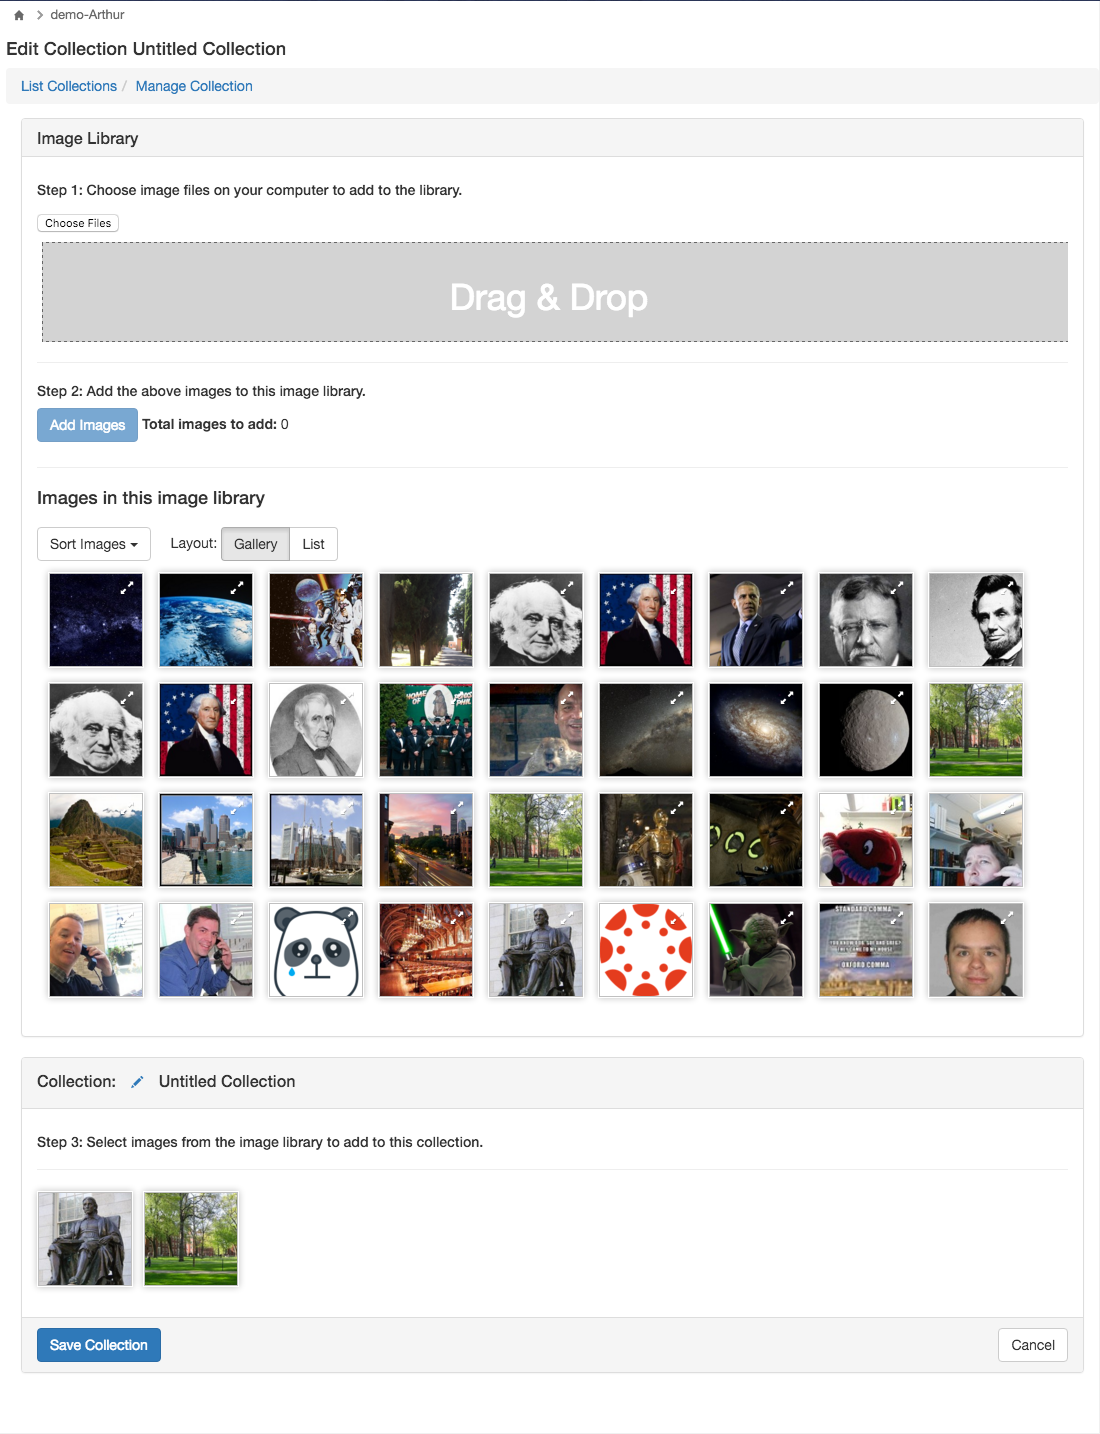
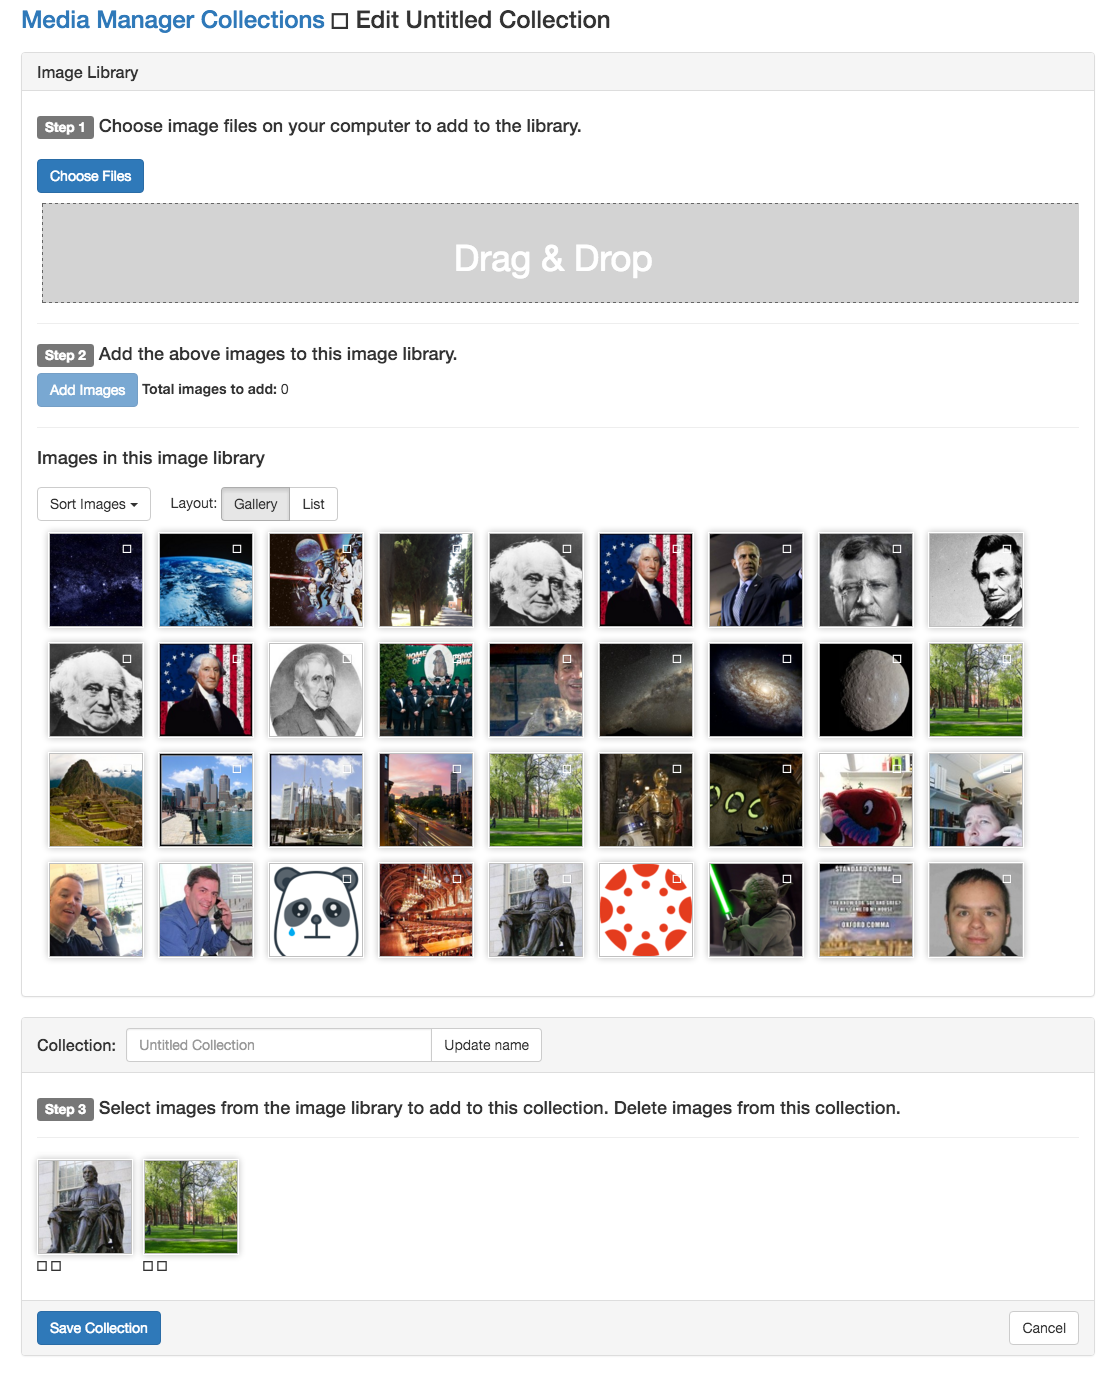
Media Manager edit - proposed screen capture and UI code

diff --git a/Media_Manager_edit/index.html b/Media_Manager_edit/index.html
@@ -1,10 +1,10 @@
 <html lang="en"><head><style type="text/css">@charset "UTF-8";[ng\:cloak],[ng-cloak],[data-ng-cloak],[x-ng-cloak],.ng-cloak,.x-ng-cloak,.ng-hide:not(.ng-hide-animate){display:none !important;}ng\:form{display:block;}.ng-animate-shim{visibility:hidden;}.ng-anchor{position:absolute;}</style>
-  <link rel="stylesheet" href="/static/app/css/vendor.css">
+  <!-- Prototype - base tag --><base href="https://media-management-lti.dev.tlt.harvard.edu" target="_blank"><!-- / Prototype --><link rel="stylesheet" href="file:///Users/vib450/Dropbox/ATG/Media_Manager_edit/proposed/vendor.css"><link rel="stylesheet" href="/static/app/css/vendor.css">
   <link rel="stylesheet" href="/static/app/css/styles.css">
   <script src="/static/app/js/vendor.js"></script><style type="text/css"></style>
   <script src="/static/app/js/app.js"></script>
-  <script>
-window.appConfig = {
+  <!-- Prototype --> 
+<!-- window.appConfig = {
     "access_token": "rnddnyrsibdbebcof5hsfuarddeuaaaaa",
     "course_id": 3,
     "media_management_api_url": "https://media-management-api.dev.tlt.harvard.edu/api",
@@ -12,7 +12,7 @@ window.appConfig = {
         "edit": true,
         "read": true
     }
-};
+}; --><!-- /Prototype --> <script>
   </script>
 </head>
 <body ng-app="media_manager" class="ng-scope">
@@ -38,11 +38,24 @@ window.appConfig = {
     </div>
   </nav>
 -->
-
-  <!-- ngView:  --><div ng-view="" class="ng-scope"><h4 class="ng-binding ng-scope">Edit Collection Untitled Collection</h4>
-
+<!-- UI comment - same header as the home page, use header as breadcrumb, as in other LTI tools -->
+  <!-- ngView:  --><div ng-view="" class="ng-scope">
+<!-- UI comment - modifying vendor.css class to change the color of the background color of the breadcrumb class to white -->
+  <style>
+  .btn-sm {
+    font-size:1.2em;
+  }
+  .breadcrumb {
+    background-color: #ffffff;
+  }
+  </style>
 <!-- ngInclude:  --><div data-ng-include="" data-src="'/static/app/templates/breadcrumbs.html'" class="ng-scope"><ol ng-controller="BreadcrumbsController" class="breadcrumb ng-scope">
-  <!-- ngRepeat: crumb in crumbs --><li ng-repeat="crumb in crumbs" class="ng-scope"><a href="#/" class="ng-binding">List Collections</a></li><!-- end ngRepeat: crumb in crumbs --><li ng-repeat="crumb in crumbs" class="ng-scope"><a href="#/workspace/8" class="ng-binding">Manage Collection</a></li><!-- end ngRepeat: crumb in crumbs -->
+  <li ng-repeat="crumb in crumbs" class="ng-scope">
+  <!-- UI comment - inline style to compensate for the spacing added by the header -->
+  <h3 style="margin-top:-.05em; margin-bottom:-.05em;"><a href="#/">Media Manager Collections</a>
+<!-- UI comment - using chevron as in LTI tools bredacrumbs -->
+    <span class="glyphicon glyphicon-chevron-right"></span>
+    Edit Untitled Collection</li><!-- end ngRepeat: crumb in crumbs -->
 </ol>
 </div>
 
@@ -59,10 +72,37 @@ window.appConfig = {
             <div ng-show="wc.isLoading.status" style="position:relative" class="ng-hide">
               <span us-spinner="{top:0,left:'50%'}" class="ng-scope"><div class="spinner" role="progressbar" style="position: absolute; width: 0px; z-index: 2000000000; left: 50%; top: 0px;"><div style="position: absolute; top: -2px; opacity: 0.25; animation: opacity-100-25-0-12 1s linear infinite;"><div style="position: absolute; width: 12px; height: 5px; box-shadow: rgba(0, 0, 0, 0.0980392) 0px 0px 1px; transform-origin: left center 0px; transform: rotate(0deg) translate(10px, 0px); border-radius: 2px; background: rgb(0, 0, 0);"></div></div><div style="position: absolute; top: -2px; opacity: 0.25; animation: opacity-100-25-1-12 1s linear infinite;"><div style="position: absolute; width: 12px; height: 5px; box-shadow: rgba(0, 0, 0, 0.0980392) 0px 0px 1px; transform-origin: left center 0px; transform: rotate(30deg) translate(10px, 0px); border-radius: 2px; background: rgb(0, 0, 0);"></div></div><div style="position: absolute; top: -2px; opacity: 0.25; animation: opacity-100-25-2-12 1s linear infinite;"><div style="position: absolute; width: 12px; height: 5px; box-shadow: rgba(0, 0, 0, 0.0980392) 0px 0px 1px; transform-origin: left center 0px; transform: rotate(60deg) translate(10px, 0px); border-radius: 2px; background: rgb(0, 0, 0);"></div></div><div style="position: absolute; top: -2px; opacity: 0.25; animation: opacity-100-25-3-12 1s linear infinite;"><div style="position: absolute; width: 12px; height: 5px; box-shadow: rgba(0, 0, 0, 0.0980392) 0px 0px 1px; transform-origin: left center 0px; transform: rotate(90deg) translate(10px, 0px); border-radius: 2px; background: rgb(0, 0, 0);"></div></div><div style="position: absolute; top: -2px; opacity: 0.25; animation: opacity-100-25-4-12 1s linear infinite;"><div style="position: absolute; width: 12px; height: 5px; box-shadow: rgba(0, 0, 0, 0.0980392) 0px 0px 1px; transform-origin: left center 0px; transform: rotate(120deg) translate(10px, 0px); border-radius: 2px; background: rgb(0, 0, 0);"></div></div><div style="position: absolute; top: -2px; opacity: 0.25; animation: opacity-100-25-5-12 1s linear infinite;"><div style="position: absolute; width: 12px; height: 5px; box-shadow: rgba(0, 0, 0, 0.0980392) 0px 0px 1px; transform-origin: left center 0px; transform: rotate(150deg) translate(10px, 0px); border-radius: 2px; background: rgb(0, 0, 0);"></div></div><div style="position: absolute; top: -2px; opacity: 0.25; animation: opacity-100-25-6-12 1s linear infinite;"><div style="position: absolute; width: 12px; height: 5px; box-shadow: rgba(0, 0, 0, 0.0980392) 0px 0px 1px; transform-origin: left center 0px; transform: rotate(180deg) translate(10px, 0px); border-radius: 2px; background: rgb(0, 0, 0);"></div></div><div style="position: absolute; top: -2px; opacity: 0.25; animation: opacity-100-25-7-12 1s linear infinite;"><div style="position: absolute; width: 12px; height: 5px; box-shadow: rgba(0, 0, 0, 0.0980392) 0px 0px 1px; transform-origin: left center 0px; transform: rotate(210deg) translate(10px, 0px); border-radius: 2px; background: rgb(0, 0, 0);"></div></div><div style="position: absolute; top: -2px; opacity: 0.25; animation: opacity-100-25-8-12 1s linear infinite;"><div style="position: absolute; width: 12px; height: 5px; box-shadow: rgba(0, 0, 0, 0.0980392) 0px 0px 1px; transform-origin: left center 0px; transform: rotate(240deg) translate(10px, 0px); border-radius: 2px; background: rgb(0, 0, 0);"></div></div><div style="position: absolute; top: -2px; opacity: 0.25; animation: opacity-100-25-9-12 1s linear infinite;"><div style="position: absolute; width: 12px; height: 5px; box-shadow: rgba(0, 0, 0, 0.0980392) 0px 0px 1px; transform-origin: left center 0px; transform: rotate(270deg) translate(10px, 0px); border-radius: 2px; background: rgb(0, 0, 0);"></div></div><div style="position: absolute; top: -2px; opacity: 0.25; animation: opacity-100-25-10-12 1s linear infinite;"><div style="position: absolute; width: 12px; height: 5px; box-shadow: rgba(0, 0, 0, 0.0980392) 0px 0px 1px; transform-origin: left center 0px; transform: rotate(300deg) translate(10px, 0px); border-radius: 2px; background: rgb(0, 0, 0);"></div></div><div style="position: absolute; top: -2px; opacity: 0.25; animation: opacity-100-25-11-12 1s linear infinite;"><div style="position: absolute; width: 12px; height: 5px; box-shadow: rgba(0, 0, 0, 0.0980392) 0px 0px 1px; transform-origin: left center 0px; transform: rotate(330deg) translate(10px, 0px); border-radius: 2px; background: rgb(0, 0, 0);"></div></div></div></span>
             </div>
-            <h5>Step 1: Choose image files on your computer to add to the library.</h5>
+<!-- UI comment - Adding a label to emphasize each step. Changing the header to h4, since it is a direct subset of the  above H3 -->
+            <h4><span class="label label-default">Step 1</span> Choose image files on your computer to add to the library.</h4>
             <section class="droplet image-library" ng-class="{ uploading: wc.Droplet.interface.isUploading() }">
               <droplet ng-model="wc.Droplet.interface" class="ng-pristine ng-untouched ng-valid ng-binding ng-isolate-scope">
-                <input class="droplet-upload droplet-multiple ng-isolate-scope ng-valid" type="file" multiple="multiple" ng-model="wc.Droplet.interface">
+                <!-- <input class="droplet-upload droplet-multiple ng-isolate-scope ng-valid" type="file" multiple="multiple" ng-model="wc.Droplet.interface"> -->
+<!-- UI comment - I am kind of pushing it now but I hope this work, as I tried to stylize the Chhose Files button -->
+<style>
+.btn-file {
+    position: relative;
+    overflow: hidden;
+    margin-top: 1em;
+}
+.btn-file input[type=file] {
+    position: absolute;
+    top: 0;
+    right: 0;
+    min-width: 100%;
+    min-height: 100%;
+    font-size: 100px;
+    text-align: right;
+    filter: alpha(opacity=0);
+    opacity: 0;
+    outline: none;
+    background: white;
+    cursor: inherit;
+    display: block;
+}
+</style>
+                <span class="btn btn-primary btn-file">
+                  Choose Files <input class="droplet-upload droplet-multiple ng-isolate-scope ng-valid" type="file" multiple="multiple" ng-model="wc.Droplet.interface">
+                </span>
                 <div style="position:relative">
                   <div class="library-drag-area">Drag &amp; Drop</div>
                   <ul class="files files-queued">
@@ -70,7 +110,8 @@ window.appConfig = {
                   </ul>
                 </div>
                 <hr>
-                <h5>Step 2: Add the above images to this image library.</h5>
+<!-- UI comment - Adding a label to emphasize each step. Changing the header to h4, since it is a direct subset of the  above H3 -->
+            <h4><span class="label label-default">Step 2</span> Add the above images to this image library.</h4>
                 <input type="button" class="btn btn-primary" value="Add Images" ng-disabled="wc.Droplet.interface.isUploading() || wc.filesToUpload == 0" ng-click="wc.Droplet.uploadFiles()" disabled="disabled">
                 <label>Total images to add:</label> 0
               </droplet>
@@ -329,26 +370,48 @@ window.appConfig = {
 
         <div id="image-collection-panel" class="panel panel-default">
           <div class="panel-heading">
-            <h3 class="panel-title">Collection:
-              <button class="btn btn-sm btn-link" ng-click="collectionTitleForm.$show()" ng-hide="collectionTitleForm.$visible">
+<!-- UI comment - introducing the Bootstrap grid layout and input form -->
+            <div class="row">
+              <div class="col-md-1">
+<!-- UI comment - Adding inline sty;e to vertically align header -->
+            <h3 class="panel-title" style="margin-top:.5em">Collection:</h3>
+          </div><!-- /col-md-2 -->
+          <div class="col-md-5">
+              <!-- <button class="btn btn-sm btn-link" ng-click="collectionTitleForm.$show()" ng-hide="collectionTitleForm.$visible">
                 <span class="glyphicon glyphicon-pencil" aria-hidden="true"></span>
               </button>
-              <span editable-text="wc.collection.title" e-form="collectionTitleForm" class="ng-scope ng-binding editable">Untitled Collection</span>
-            </h3>
+              <span editable-text="wc.collection.title" e-form="collectionTitleForm" class="ng-scope ng-binding editable">Untitled Collection</span> -->
+              <div class="input-group">
+      <input type="text" class="form-control" placeholder="Untitled Collection">
+      <span class="input-group-btn">
+        <button class="btn btn-default" type="button">Update name</button>
+      </span>
+    </div><!-- /input-group -->
+  </div><!-- /col-md-10 -->
+</div><!-- /row -->
+            
           </div>
           <div class="panel-body">
             <div ng-show="wc.isLoadingCollection.status || wc.isSavingCollection.status" class="ng-hide">
                 <span us-spinner="{top:'50%'}" class="ng-scope"><div class="spinner" role="progressbar" style="position: absolute; width: 0px; z-index: 2000000000; left: 50%; top: 50%;"><div style="position: absolute; top: -2px; opacity: 0.25; animation: opacity-100-25-0-12 1s linear infinite;"><div style="position: absolute; width: 12px; height: 5px; box-shadow: rgba(0, 0, 0, 0.0980392) 0px 0px 1px; transform-origin: left center 0px; transform: rotate(0deg) translate(10px, 0px); border-radius: 2px; background: rgb(0, 0, 0);"></div></div><div style="position: absolute; top: -2px; opacity: 0.25; animation: opacity-100-25-1-12 1s linear infinite;"><div style="position: absolute; width: 12px; height: 5px; box-shadow: rgba(0, 0, 0, 0.0980392) 0px 0px 1px; transform-origin: left center 0px; transform: rotate(30deg) translate(10px, 0px); border-radius: 2px; background: rgb(0, 0, 0);"></div></div><div style="position: absolute; top: -2px; opacity: 0.25; animation: opacity-100-25-2-12 1s linear infinite;"><div style="position: absolute; width: 12px; height: 5px; box-shadow: rgba(0, 0, 0, 0.0980392) 0px 0px 1px; transform-origin: left center 0px; transform: rotate(60deg) translate(10px, 0px); border-radius: 2px; background: rgb(0, 0, 0);"></div></div><div style="position: absolute; top: -2px; opacity: 0.25; animation: opacity-100-25-3-12 1s linear infinite;"><div style="position: absolute; width: 12px; height: 5px; box-shadow: rgba(0, 0, 0, 0.0980392) 0px 0px 1px; transform-origin: left center 0px; transform: rotate(90deg) translate(10px, 0px); border-radius: 2px; background: rgb(0, 0, 0);"></div></div><div style="position: absolute; top: -2px; opacity: 0.25; animation: opacity-100-25-4-12 1s linear infinite;"><div style="position: absolute; width: 12px; height: 5px; box-shadow: rgba(0, 0, 0, 0.0980392) 0px 0px 1px; transform-origin: left center 0px; transform: rotate(120deg) translate(10px, 0px); border-radius: 2px; background: rgb(0, 0, 0);"></div></div><div style="position: absolute; top: -2px; opacity: 0.25; animation: opacity-100-25-5-12 1s linear infinite;"><div style="position: absolute; width: 12px; height: 5px; box-shadow: rgba(0, 0, 0, 0.0980392) 0px 0px 1px; transform-origin: left center 0px; transform: rotate(150deg) translate(10px, 0px); border-radius: 2px; background: rgb(0, 0, 0);"></div></div><div style="position: absolute; top: -2px; opacity: 0.25; animation: opacity-100-25-6-12 1s linear infinite;"><div style="position: absolute; width: 12px; height: 5px; box-shadow: rgba(0, 0, 0, 0.0980392) 0px 0px 1px; transform-origin: left center 0px; transform: rotate(180deg) translate(10px, 0px); border-radius: 2px; background: rgb(0, 0, 0);"></div></div><div style="position: absolute; top: -2px; opacity: 0.25; animation: opacity-100-25-7-12 1s linear infinite;"><div style="position: absolute; width: 12px; height: 5px; box-shadow: rgba(0, 0, 0, 0.0980392) 0px 0px 1px; transform-origin: left center 0px; transform: rotate(210deg) translate(10px, 0px); border-radius: 2px; background: rgb(0, 0, 0);"></div></div><div style="position: absolute; top: -2px; opacity: 0.25; animation: opacity-100-25-8-12 1s linear infinite;"><div style="position: absolute; width: 12px; height: 5px; box-shadow: rgba(0, 0, 0, 0.0980392) 0px 0px 1px; transform-origin: left center 0px; transform: rotate(240deg) translate(10px, 0px); border-radius: 2px; background: rgb(0, 0, 0);"></div></div><div style="position: absolute; top: -2px; opacity: 0.25; animation: opacity-100-25-9-12 1s linear infinite;"><div style="position: absolute; width: 12px; height: 5px; box-shadow: rgba(0, 0, 0, 0.0980392) 0px 0px 1px; transform-origin: left center 0px; transform: rotate(270deg) translate(10px, 0px); border-radius: 2px; background: rgb(0, 0, 0);"></div></div><div style="position: absolute; top: -2px; opacity: 0.25; animation: opacity-100-25-10-12 1s linear infinite;"><div style="position: absolute; width: 12px; height: 5px; box-shadow: rgba(0, 0, 0, 0.0980392) 0px 0px 1px; transform-origin: left center 0px; transform: rotate(300deg) translate(10px, 0px); border-radius: 2px; background: rgb(0, 0, 0);"></div></div><div style="position: absolute; top: -2px; opacity: 0.25; animation: opacity-100-25-11-12 1s linear infinite;"><div style="position: absolute; width: 12px; height: 5px; box-shadow: rgba(0, 0, 0, 0.0980392) 0px 0px 1px; transform-origin: left center 0px; transform: rotate(330deg) translate(10px, 0px); border-radius: 2px; background: rgb(0, 0, 0);"></div></div></div></span>
             </div>
-            <h5>Step 3: Select images from the image library to add to this collection.</h5>
+<!-- UI comment - Adding a note that images can also be deleted from the collection -->
+<!-- UI comment - Adding a label to emphasize each step. Changing the header to h4, since it is a direct subset of the  above H3 -->
+            <h4><span class="label label-default">Step 3</span> Select images from the image library to add to this collection. Delete images from this collection.</h4>
             <hr>
             <div ng-show="wc.collection.images.length == 0" class="ng-hide">Empty collection</div>
             <ul class="list-inline">
               <!-- ngRepeat: collectionImage in wc.collection.images track by $index --><li class="droplet-thumb ng-scope" ng-repeat="collectionImage in wc.collection.images track by $index">
                 <img style="background-image: url(https://loris.dev.tlt.harvard.edu/loris/atg-media-management-api-non-prod%2Fdev%2Fimages%2F6%2F8717130d4cd171a9b03af6118db6327a.jpg/full/179,200/0/default.jpg)" class="droplet-preview ng-isolate-scope ng-valid" ng-model="collectionImage">
+<!-- UI comment - An alternative to the image mouse-over icons and add/delete/full view functionality to allow these controls to be accessible to people with disabilities  -->
+                <span class="glyphicon glyphicon-resize-full"></span>
+                <span class="glyphicon glyphicon-trash"></span>
                 <div class="overlay" ng-click="wc.removeFromCollection($index)">-</div>
               </li><!-- end ngRepeat: collectionImage in wc.collection.images track by $index --><li class="droplet-thumb ng-scope" ng-repeat="collectionImage in wc.collection.images track by $index">
                 <img style="background-image: url(https://loris.dev.tlt.harvard.edu/loris/atg-media-management-api-non-prod%2Fdev%2Fimages%2F15%2F891d34ea58d91c854188c7ec66c05e5b.jpg/full/253,200/0/default.jpg)" class="droplet-preview ng-isolate-scope ng-valid" ng-model="collectionImage">
+<!-- UI comment - An alternative to the image mouse-over icons and add/delete/full view functionality to allow these controls to be accessible   -->
+                <span class="glyphicon glyphicon-resize-full"></span>
+                <span class="glyphicon glyphicon-trash"></span>
                 <div class="overlay" ng-click="wc.removeFromCollection($index)">-</div>
               </li><!-- end ngRepeat: collectionImage in wc.collection.images track by $index -->
             </ul>
